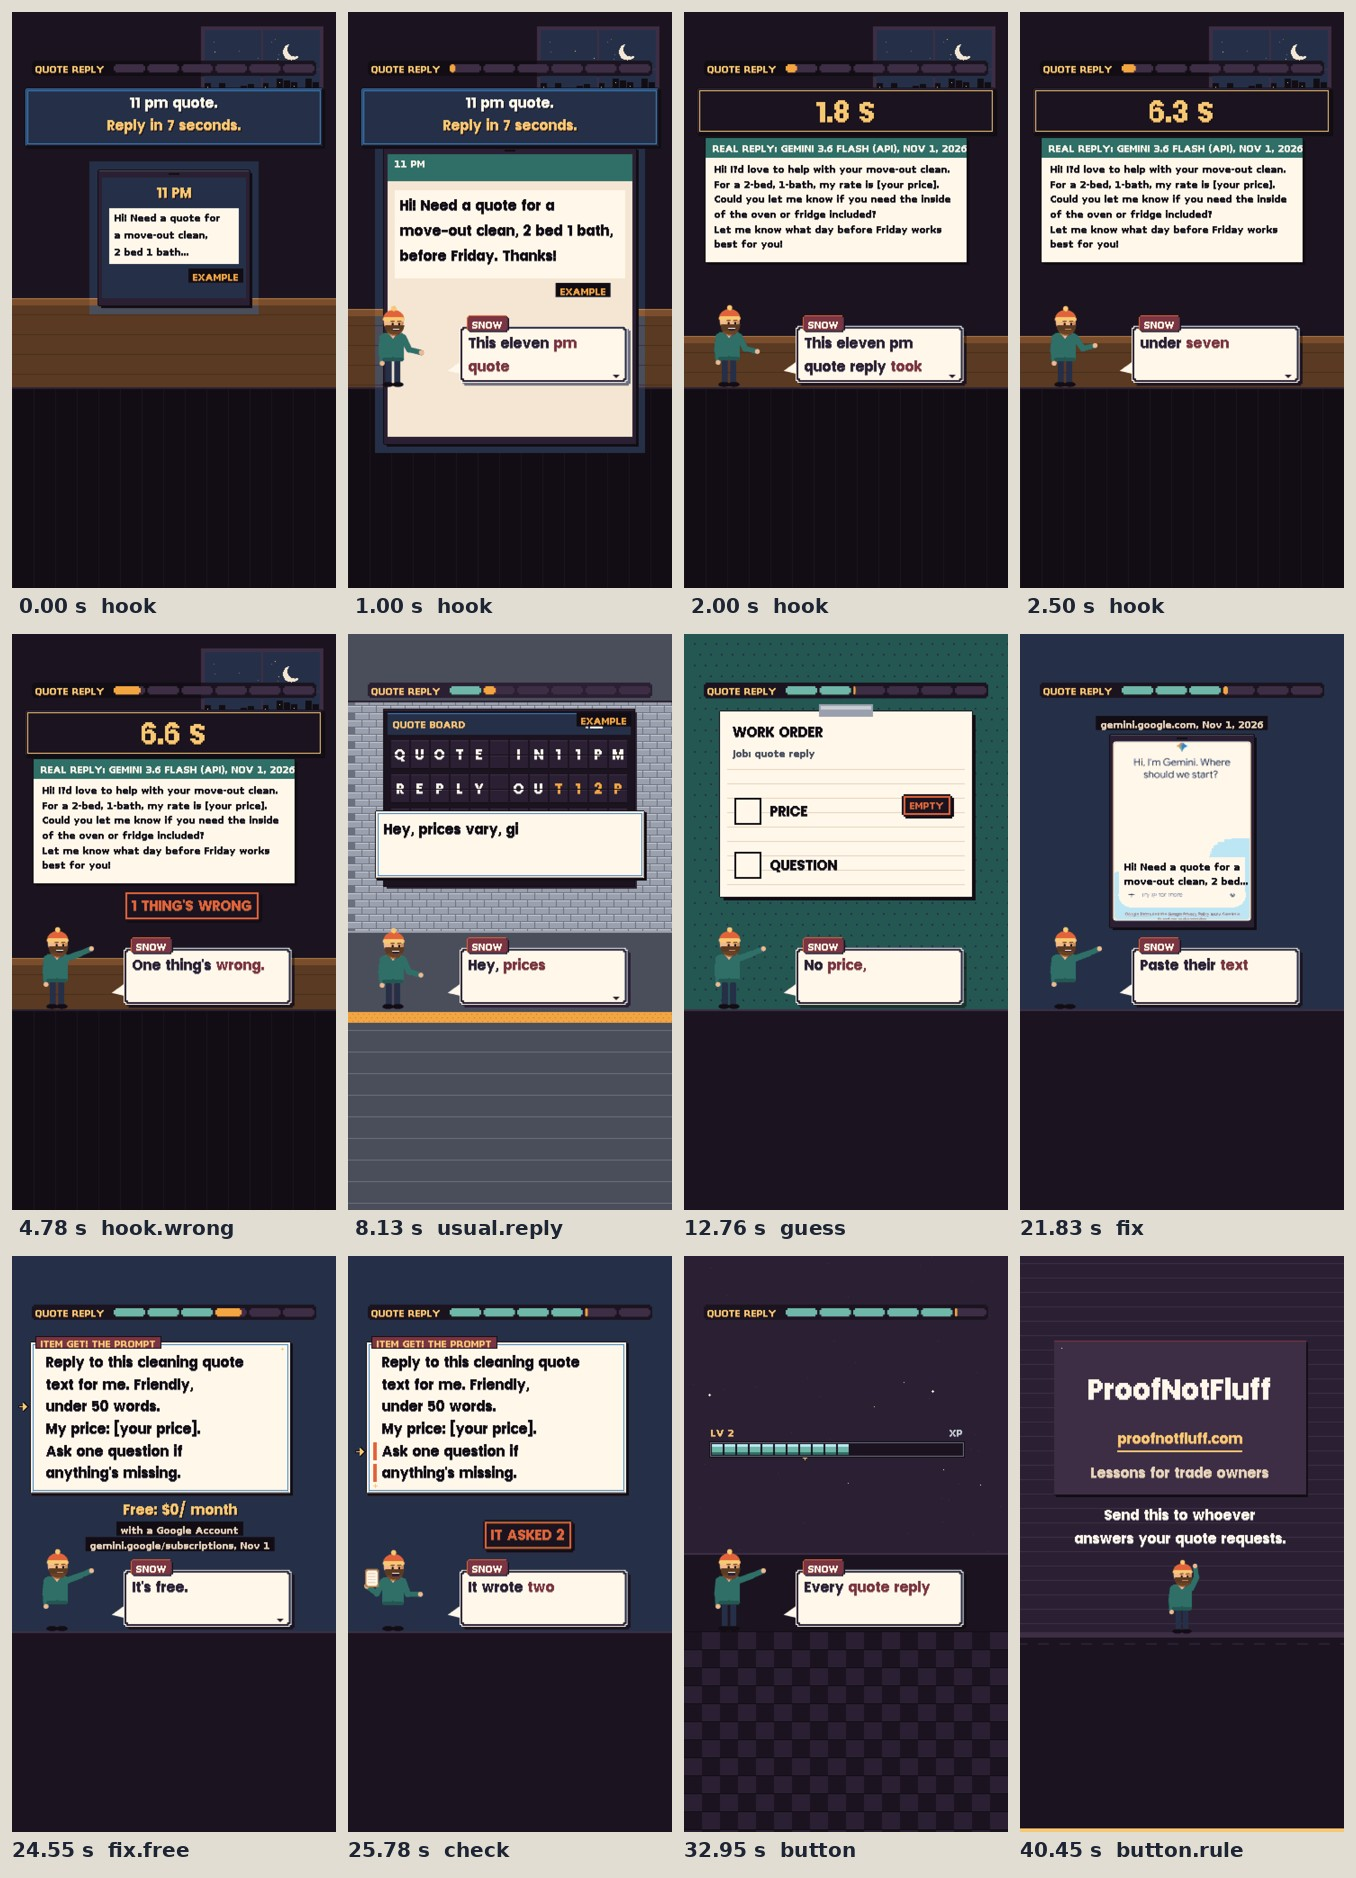
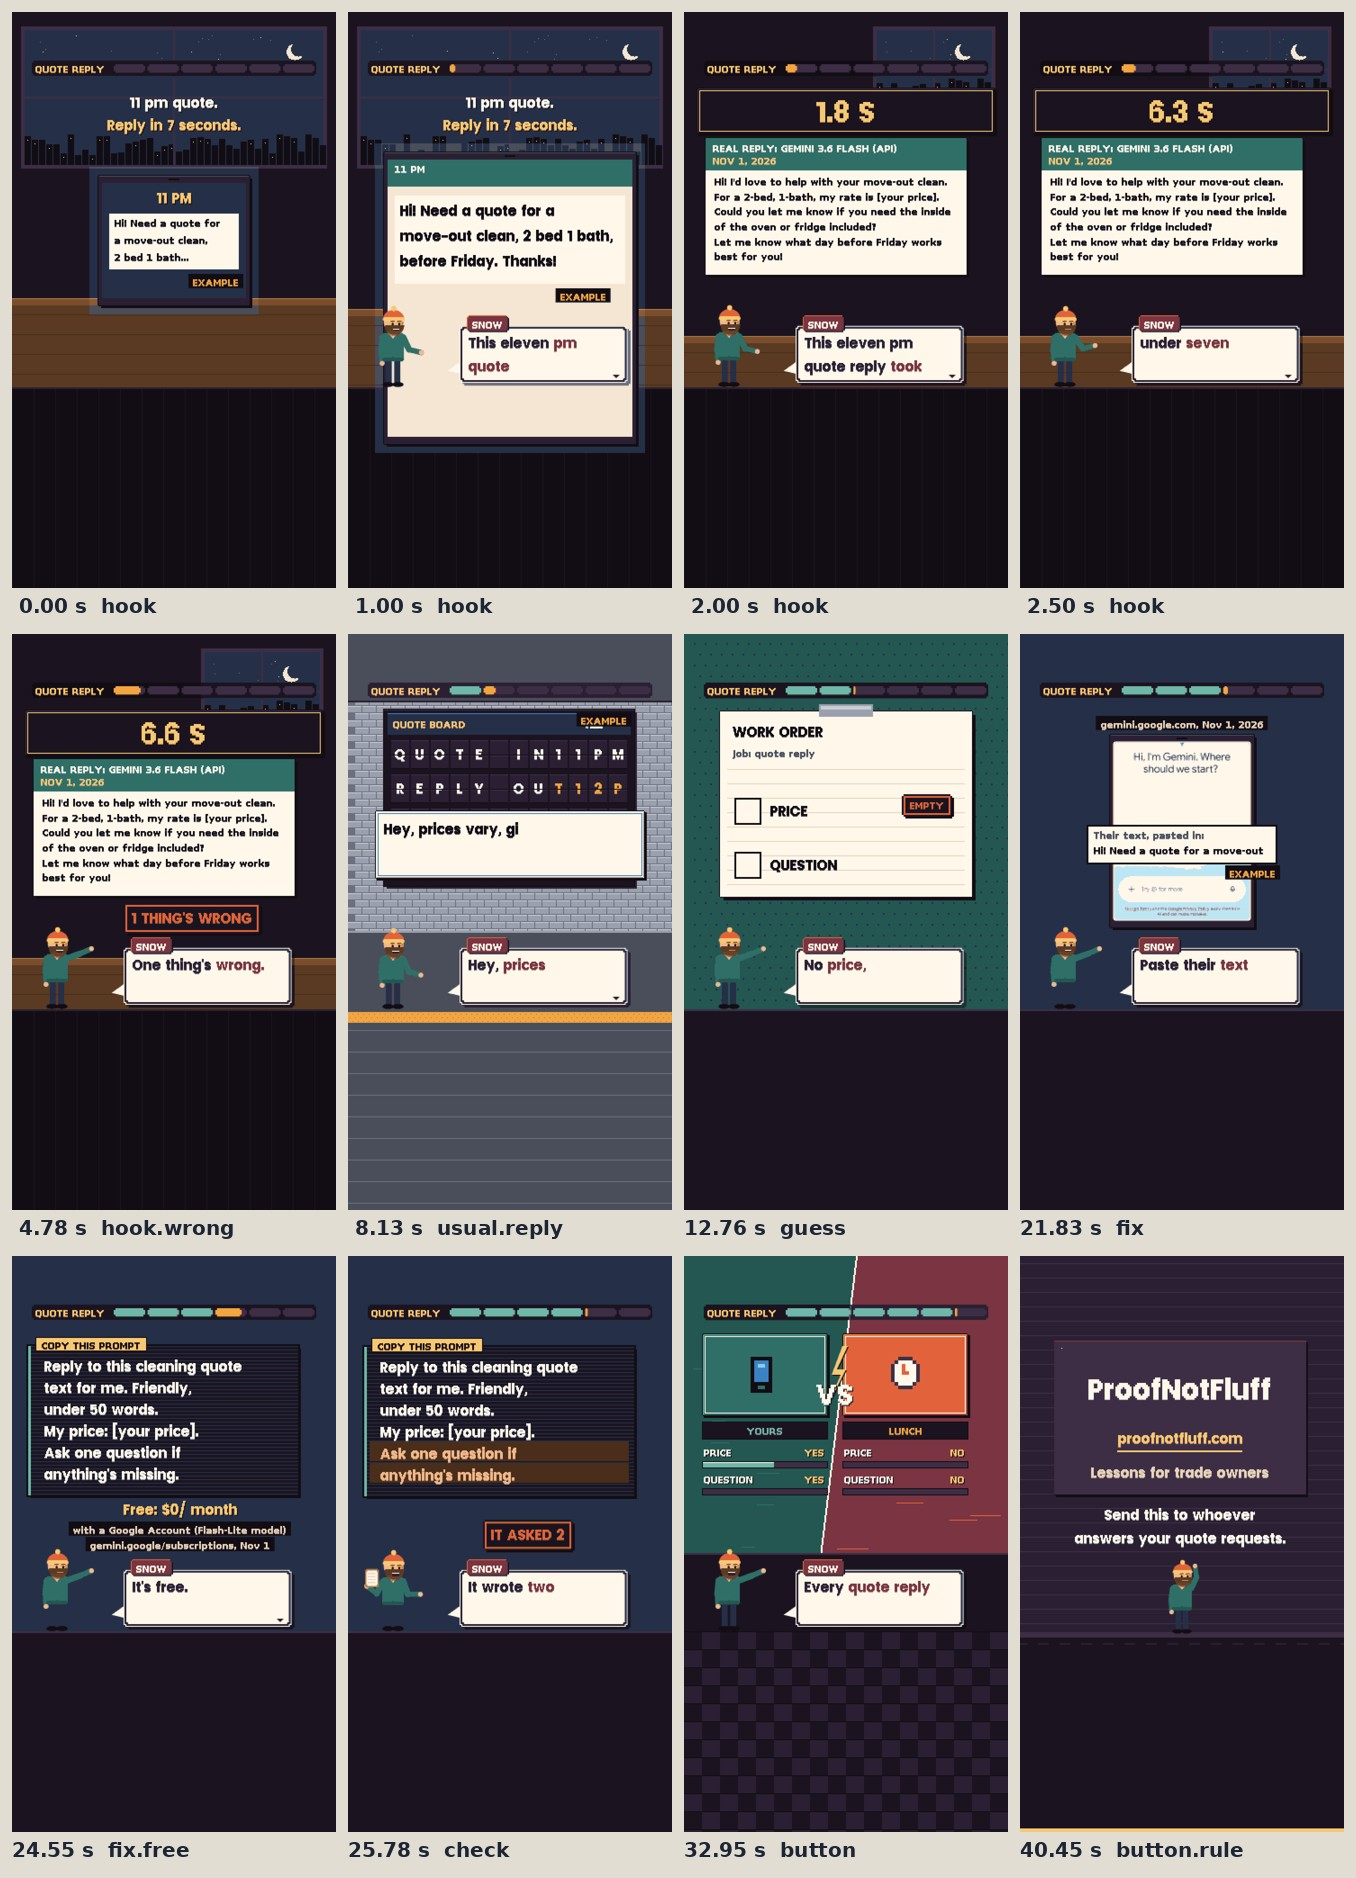
studio: ai-night-quote r2 build after gate round 0 (straight apostrophe on screen, two-line label, new hook frame, prompt window, versus button, gauge labels)
Claude-Session: https://claude.ai/code/session_01XMn4eG6k8p7JQcb4MZZmhR

diff --git a/video/studio/videos/2026-11-14-ai-night-quote/04_scene/scene.js b/video/studio/videos/2026-11-14-ai-night-quote/04_scene/scene.js
@@ -72,17 +72,18 @@ const REPLY = ["Hi! I’d love to help with your move-out clean. For a 2-bed, 1-
   'Could you let me know if you need the inside of the oven or fridge included?',
   'Let me know what day before Friday works best for you!'];
 const CUSTOMER = 'Hi! Need a quote for a move-out clean, 2 bed 1 bath, before Friday. Thanks!';
-const LABEL = 'REAL REPLY: GEMINI 3.6 FLASH (API), NOV 1, 2026';
+const LABEL = ['REAL REPLY: GEMINI 3.6 FLASH (API)', 'NOV 1, 2026'];
+const glyphs = (l) => l.replace(/\u2019/g, "'");   /* the pixel font has no curly apostrophe: the same word, drawn straight */
 
 /* the bedroom at night: a dark wall, a window with the moon and a city line, the nightstand top, the phone glow */
 const bedroom = (k, o = {}) => {
   const d = px(k), {P, DOT, dith, disc, F} = d;
   P(0, 0, 360, 417, '#1B1420'); for (let y = 0; y < 417; y += 6) P(0, y, 360, 1, '#1F1726');
   /* the window, top right: a navy sky, the moon, stars that twinkle slowly, a skyline */
-  const wx = 214, wy = 20, ww = 128, wh = 88;
+  const wide = o.wide, wx = wide ? 14 : 214, wy = wide ? 20 : 20, ww = wide ? 332 : 128, wh = wide ? 150 : 88;
   P(wx - 4, wy - 4, ww + 8, wh + 8, '#3D2E45'); P(wx, wy, ww, wh, '#253048'); dith(wx, wy + wh - 30, ww, 30, '#2B3A5A');
-  disc(wx + 96, wy + 24, 9, '#FFF2B8'); disc(wx + 100, wy + 21, 8, '#253048');
-  for (let i = 0; i < 9; i++) { const x = wx + 6 + Math.floor(hash(i * 3.1) * (ww - 12)), y = wy + 6 + Math.floor(hash(i * 7.3) * 40); DOT(x, y, (Math.floor(F / 18) + i) % 4 === 0 ? GOLD : '#6B7080'); }
+  disc(wx + ww - 32, wy + 24, 9, '#FFF2B8'); disc(wx + ww - 28, wy + 21, 8, '#253048');
+  for (let i = 0; i < (wide ? 22 : 9); i++) { const x = wx + 6 + Math.floor(hash(i * 3.1) * (ww - 12)), y = wy + 6 + Math.floor(hash(i * 7.3) * 40); DOT(x, y, (Math.floor(F / 18) + i) % 4 === 0 ? GOLD : '#6B7080'); }
   for (let x = wx; x < wx + ww; x += 8) { const h = 10 + Math.floor(hash(x * 0.37) * 26); P(x, wy + wh - h, 7, h, '#120D14'); if (hash(x * 1.7) > 0.5) DOT(x + 3, wy + wh - h + 4, GOLD); }
   P(wx + ww / 2 - 1, wy, 2, wh, '#3D2E45'); P(wx, wy + wh / 2 - 1, ww, 2, '#3D2E45');
   /* the nightstand */
@@ -103,7 +104,6 @@ const bigPhone = (k, d, x, y, w, h, o = {}) => {
 };
 /* the hook's title plate */
 const hookPlate = (k, d, n) => {
-  d.win(14, 84, 332, 66, {base: '#253048', hi: '#3B82C4', lo: '#1B1420', rule: '#3B82C4'});
   k.text(`${n.night.shown} pm quote.`, 540, 270, {size: 66, color: CREAM, align: 'center', drop: INK});
   k.text(`Reply in ${n.under.shown} seconds.`, 540, 346, {size: 66, color: GOLD, align: 'center', drop: INK});
 };
@@ -114,24 +114,50 @@ const tag = (k, s, x, y, o = {}) => chipText(k, s, x, y, Object.assign({size: 39
 const replyCard = (k, x, y, w, o = {}) => {
   const lh = 50, pad = 30, rows = [];
   REPLY.forEach((p, pi) => k.wrap(p, {size: 39}, w - 2 * pad).forEach((l) => rows.push([l, pi])));
-  const n = o.max != null ? Math.min(o.max, rows.length) : rows.length, h = 84 + n * lh + 30 + (o.extra || 0);
+  const n = o.max != null ? Math.min(o.max, rows.length) : rows.length, h = 126 + n * lh + 30 + (o.extra || 0);
   const fl = o.float ? bob2(k.T, o.float) / 2 : 0;
   k.ctx.fillStyle = INK; k.ctx.fillRect(x + 9, y + 9 + fl, w, h); k.ctx.fillRect(x - 3, y - 3 + fl, w + 6, h + 6);
   k.ctx.fillStyle = CREAM; k.ctx.fillRect(x, y + fl, w, h);
-  k.ctx.fillStyle = '#2F6F67'; k.ctx.fillRect(x, y + fl, w, 66);
-  k.text(o.label || LABEL, x + 24, y + 16 + fl, {size: 39, color: CREAM});
+  k.ctx.fillStyle = '#2F6F67'; k.ctx.fillRect(x, y + fl, w, 108);
+  k.text(LABEL[0], x + 24, y + 14 + fl, {size: 39, color: CREAM}); k.text(LABEL[1], x + 24, y + 58 + fl, {size: 39, color: GOLD});
   rows.slice(0, n).forEach(([l, pi], i) => {
-    const ly = y + 84 + i * lh + fl;
+    const ly = y + 126 + i * lh + fl;
     if (o.hi && o.hi[pi] && k.T >= o.hi[pi][1]) { k.ctx.fillStyle = o.hi[pi][0]; k.ctx.fillRect(x + 12, ly - 6, w - 24, lh - 2); }
     const dead = o.strike && o.strike.includes(pi) && k.T >= o.strikeAt;
-    k.text(l, x + pad, ly, {size: 39, color: dead ? GREY : INK});
-    if (dead) { k.ctx.fillStyle = RED; k.ctx.fillRect(x + pad - 6, ly + 18, Math.min(w - 2 * pad + 12, k.measure(l, {size: 39}) + 12), 6); }
+    k.text(glyphs(l), x + pad, ly, {size: 39, color: dead ? '#B5524A' : INK});
+    if (dead) { k.ctx.fillStyle = RED; k.ctx.fillRect(x + pad - 6, ly + 15, Math.min(w - 2 * pad + 12, k.measure(glyphs(l), {size: 39}) + 12), 6); }
     if (o.priceAt != null && k.T >= o.priceAt && l.includes('[your price]')) {
-      const pre = l.slice(0, l.indexOf('[your price]')), px0 = x + pad + k.measure(pre, {size: 39}), pw = k.measure('[your price]', {size: 39});
+      const pre = glyphs(l).slice(0, l.indexOf('[your price]')), px0 = x + pad + k.measure(pre, {size: 39}), pw = k.measure('[your price]', {size: 39});
       k.sweep(px0 - 6, ly - 6, pw + 12, lh - 2, o.priceAt, {color: GOLD}); k.text('[your price]', px0, ly, {size: 39, color: INK, lint: false});
     }
   });
   return {x, y: y + fl, w, h, rows: n};
+};
+
+/* the save card (C3): a dark terminal-style PROMPT window. The lines type in as it lands (0.06 s a letter, all six in */
+/* about 1.2 s), a block cursor blinks at 2 a second after the last letter and the window floats 1 px, so it is never */
+/* flat (M1). A gold COPY THIS tab rides its top edge. o.red: line indexes lit red from o.redAt.                    */
+const promptBox = (k, t0, o = {}) => {
+  const T = k.T; if (T < t0) return null;
+  const x = 54, w = 900, lh = 72, pad = 36, y0 = 300, h = pad * 2 + PROMPT.length * lh - 6;
+  const q = eo(clamp((T - t0) / 0.25)), y = Math.round((y0 + (1 - q) * 60) / 3) * 3 + (T >= t0 + 1.6 ? bob2(T, t0 + 1.6) / 2 : 0);
+  k.ctx.fillStyle = INK; k.ctx.fillRect(x + 9, y + 9, w, h); k.ctx.fillRect(x - 6, y - 6, w + 12, h + 12);
+  k.ctx.fillStyle = '#0E1F2A'; k.ctx.fillRect(x, y, w, h);
+  k.ctx.fillStyle = '#16323F'; for (let yy = y; yy < y + h; yy += 12) k.ctx.fillRect(x, yy, w, 3);
+  k.ctx.fillStyle = TEAL; k.ctx.fillRect(x, y, 9, h);
+  const tab = 'COPY THIS PROMPT', tw2 = k.measure(tab, {size: 39}) + 36;
+  k.ctx.fillStyle = INK; k.ctx.fillRect(x + 24, y - 30, tw2 + 6, 48); k.ctx.fillStyle = GOLD; k.ctx.fillRect(x + 27, y - 27, tw2, 42);
+  k.text(tab, x + 45, y - 21, {size: 39, color: INK});
+  const per = 0.011, total = PROMPT.join('').length; let used = 0, lastX = x + pad + 18, lastY = y + pad;
+  const shown = Math.floor((T - t0 - 0.15) / per);
+  PROMPT.forEach((l, i) => {
+    const c = clamp(shown - used, 0, l.length); used += l.length;
+    const ly = y + pad + i * lh, red = o.red && o.red.includes(i) && T >= o.redAt;
+    if (red) { k.ctx.fillStyle = '#5A1F24'; k.ctx.fillRect(x + 18, ly - 9, w - 36, lh - 6); }
+    if (c > 0) { k.text(l.slice(0, c), x + pad + 18, ly, {size: 66, color: red ? '#FFB4A2' : CREAM}); lastX = x + pad + 18 + k.measure(l.slice(0, c), {size: 66}); lastY = ly; }
+  });
+  if (shown >= total && Math.floor(T * 2) % 2 === 0) { k.ctx.fillStyle = GOLD; k.ctx.fillRect(lastX + 9, lastY, 27, 60); }
+  return {x, y, w, h};
 };
 
 window.SCENE = {
@@ -140,8 +166,8 @@ window.SCENE = {
   host_name: 'Snow',
   hud: 'QUOTE REPLY',
   sendLine: 'Send this to whoever answers your quote requests.',
-  transitions: {usual: 'dissolve', guess: 'levelselect', fix: 'dissolve', check: 'dissolve', button: 'gameover'},
-  trauma: {'check': 0.6},
+  transitions: {usual: 'dissolve', guess: 'levelselect', fix: 'dissolve', check: 'dissolve', button: 'levelselect'},
+  trauma: {'check.cut': 0.6},
   sections: {
     /* ---- hook: three shots. Cover (frame 0, no host): the bedroom, the phone on the nightstand glowing with the     */
     /* customer's text, 11 PM, the plate. By 0.8 s cut in close on the phone: the bubble big, EXAMPLE. On "reply"  */
@@ -161,8 +187,8 @@ window.SCENE = {
         return host(k, T >= tWrong ? 'point' : null);
       }
       if (T >= tIn) {
-        const d = bedroom(k, {top: 330});
-        const s = bigPhone(k, d, 40, 150, 280, 330, {glow: true});
+        const d = bedroom(k, {top: 330, wide: true});
+        const s = bigPhone(k, d, 40, 156, 280, 324, {glow: true});
         d.P(s.x, s.y, s.w, 30, '#2F6F67'); k.text(`${n.night.shown} PM`, (s.x + 8) * 3, (s.y + 4) * 3, {size: 39, color: CREAM, lint: false});
         const ls = k.wrap(CUSTOMER, {size: 66}, (s.w - 24) * 3);
         d.P(s.x + 8, s.y + 40, s.w - 16, ls.length * 28 + 14, CREAM); d.P(s.x + 8, s.y + 40, s.w - 16, 1, '#FFFFFF');
@@ -171,8 +197,8 @@ window.SCENE = {
         hookPlate(k, d, n);
         return host(k);
       }
-      const d = bedroom(k, {top: 318});
-      const s = bigPhone(k, d, 96, 176, 168, 150, {glow: true, screen: '#253048'});
+      const d = bedroom(k, {top: 318, wide: true});
+      const s = bigPhone(k, d, 96, 182, 168, 144, {glow: true, screen: '#253048'});
       k.text(`${n.night.shown} PM`, 540, (s.y + 6) * 3, {size: 66, color: GOLD, align: 'center', drop: INK});
       d.P(s.x + 8, s.y + 34, s.w - 16, 62, CREAM); d.P(s.x + 8, s.y + 34, s.w - 16, 1, '#FFFFFF');
       ['Hi! Need a quote for', 'a move-out clean,', '2 bed 1 bath...'].forEach((l, i) => k.text(l, (s.x + 14) * 3, (s.y + 38 + i * 19) * 3, {size: 39, color: INK}));
@@ -203,10 +229,9 @@ window.SCENE = {
       const n = k.data.numbers, t0 = k.S('guess'), tStake = k.S('guess.stake');
       if (T >= tStake) {
         const tTwenty = wordT(k, 'guess.stake', /^twenty/i, 1.0);
-        k.sets.gauge({value: n.hourPct.value, max: 100, at: tTwenty - 0.25, dur: 1.0, zones: [[0, 40, RED], [40, 70, ORANGE], [70, 100, TEAL]], label: `REPLY IN ${n.hours.shown} HOUR`, suffix: '%'});
-        k.text('of cleaning businesses', 540, 800 + (T >= tTwenty + 1.2 ? bob2(T, tTwenty + 1.2) : 0), {size: 66, color: CREAM, align: 'center', drop: INK});
-        tag(k, 'Source: Jobber, 2026 Home Service Trends', 540, 880, {align: 'center'});
-        tag(k, `Report, ${n.owners.shown} owners, Dec ${n.year.shown}`, 540, 936, {align: 'center'});
+        k.sets.gauge({value: n.hourPct.value, max: 100, at: tTwenty - 0.25, dur: 1.0, zones: [[0, 40, RED], [40, 70, ORANGE], [70, 100, TEAL]], label: `CLEANING: REPLY IN ${n.hours.shown} HOUR`, suffix: '%'});
+        tag(k, 'Source: Jobber, 2026 Home Service Trends', 540, 908 + (T >= tTwenty + 1.2 ? bob2(T, tTwenty + 1.2) / 2 : 0), {align: 'center'});
+        tag(k, `Report, ${n.owners.shown} owners, Dec ${n.year.shown}`, 540, 958, {align: 'center'});
         return host(k, T >= tTwenty ? 'lean' : null);
       }
       const d = px(k), {P} = d;
@@ -238,17 +263,19 @@ window.SCENE = {
       P(0, 0, 360, 417, '#253048'); for (let y = 0; y < 417; y += 4) P(0, y, 360, 1, '#1F2A40'); P(0, 417, 360, 223, '#1B1420'); P(0, 417, 360, 2, '#3D2E45');
       if (T < tPr - 0.25) {
         const s = bigPhone(k, d, 100, 112, 160, 214, {screen: '#F7F7F7'});
-        k.page(s.x * 3, s.y * 3, s.w * 3, s.h * 3, 'gemini-app', {scroll: 380});
+        k.page(s.x * 3, s.y * 3, s.w * 3, s.h * 3, 'gemini-app', {scroll: 398});
         /* their text pastes into the box */
         const q = clamp((T - (t0 + 0.4)) / 0.4);
-        if (q > 0) { d.P(s.x + 6, s.y + s.h - 70, s.w - 12, 40, CREAM); k.text('Hi! Need a quote for a', (s.x + 12) * 3, (s.y + s.h - 66) * 3, {size: 39, color: INK}); k.text('move-out clean, 2 bed...', (s.x + 12) * 3, (s.y + s.h - 50) * 3, {size: 39, color: INK}); }
+        if (q > 0) { const sl = d.ease(t0 + 0.4, 6, 30), by = s.y + 92 + sl; d.P(s.x - 30, by, s.w + 60, 44, INK); d.P(s.x - 28, by + 2, s.w + 56, 40, CREAM);
+          k.text('Their text, pasted in:', (s.x - 22) * 3, (by + 5) * 3, {size: 39, color: '#4A4E5A'}); k.text('Hi! Need a quote for a move-out', (s.x - 22) * 3, (by + 22) * 3, {size: 39, color: INK});
+          tag(k, 'EXAMPLE', (s.x + s.w + 28) * 3, (by + 48) * 3, {align: 'right', color: ORANGE}); }
         tag(k, 'gemini.google.com, Nov 1, 2026', 540, 282, {align: 'center'});
         return host(k, 'point');
       }
-      k.itemGet({x: 60, y: 288, w: 870, at: tPr - 0.25, size: 66, lh: 74, pad: 36, title: 'ITEM GET! THE PROMPT', step: 0.7, lines: PROMPT});
+      promptBox(k, tPr - 0.25);
       if (T >= tFree - 0.25) {
         k.slam(`Free: ${n.free.shown}/ month`, 560, 812 + (T >= tFree + 0.2 ? bob2(T, tFree + 0.2) : 0), tFree - 0.25, {size: 66, color: GOLD, align: 'center', from: 0.4, drop: INK, glint: false});
-        tag(k, 'with a Google Account', 560, 894, {align: 'center'});
+        tag(k, 'with a Google Account (Flash-Lite model)', 560, 894, {align: 'center'});
         tag(k, 'gemini.google/subscriptions, Nov 1', 560, 946, {align: 'center'});
       }
       return host(k, 'point');
@@ -265,7 +292,7 @@ window.SCENE = {
       if (T < tOven - 0.25) {
         const tPr = k.S('fix.prompt'), d = px(k), {P} = d;
         P(0, 0, 360, 417, '#253048'); for (let y = 0; y < 417; y += 4) P(0, y, 360, 1, '#1F2A40'); P(0, 417, 360, 223, '#1B1420'); P(0, 417, 360, 2, '#3D2E45');
-        k.itemGet({x: 60, y: 288, w: 870, at: tPr - 0.25, size: 66, lh: 74, pad: 36, title: 'ITEM GET! THE PROMPT', step: 0.7, lines: PROMPT, bars: [null, null, null, null, T >= tTwo - 0.25 ? RED : null, T >= tTwo - 0.25 ? RED : null]});
+        promptBox(k, tPr - 0.25, {red: [4, 5], redAt: tTwo - 0.25});
         if (T >= tTwo - 0.25) stampBox(k, `IT ASKED ${n.asked.shown}`, 600, 880, tTwo - 0.25, {color: RED, size: 66});
         return host(k, 'lean');
       }
@@ -279,15 +306,18 @@ window.SCENE = {
       return host(k, T >= tCut ? 'point' : (T >= tTwo ? 'lean' : null));
     },
 
-    /* ---- button: the levelup set (the native move, M7): the bar fills, LEVEL UP on "question", perks PRICE and ONE    */
-    /* QUESTION; the rule in gold on "Send".                                                                            */
+    /* ---- button: the versus set: YOURS (price YES, question YES) against LUNCH (NO, NO), the work order's two boxes as */
+    /* stats; QUEST COMPLETE stamps on the winner on "question" (the native move, M7); the rule lands in gold on "Send". */
     button: (k, T) => {
-      const t0 = k.S('button'), tQ = wordT(k, 'button', /^question/i, 2.2), tRule = k.S('button.rule');
-      k.sets.levelup({from: 0, to: 100, max: 100, at: t0 + 0.1, dur: Math.max(0.6, tQ - t0 - 0.3), levelAt: tQ - 0.2, level: 2,
-        stats: [{text: 'A PRICE', at: wordT(k, 'button', /^price/i, 1.2) - 0.25}, {text: 'ONE QUESTION', at: tQ - 0.25}]});
+      const t0 = k.S('button'), tP = wordT(k, 'button', /^price/i, 1.2), tQ = wordT(k, 'button', /^question/i, 2.2), tRule = k.S('button.rule');
+      const n = k.data.numbers;
+      /* versus: the lunch reply against the fixed one, the two boxes of the work order as the stats (teal is the fix) */
+      k.sets.versus({a: {name: 'YOURS', icon: 'phone', stats: [{label: 'PRICE', value: 1, max: 1, text: 'YES'}, {label: 'QUESTION', value: 1, max: 1, text: 'YES'}]},
+        b: {name: 'LUNCH', icon: 'clock', stats: [{label: 'PRICE', value: 0, max: 1, text: 'NO'}, {label: 'QUESTION', value: 0, max: 1, text: 'NO'}]},
+        at: t0 - 0.4, vsAt: t0 + 0.2, winner: 'a', winAt: tQ - 0.2, winText: 'QUEST COMPLETE'});
       if (T >= tRule - 0.25) {
-        k.slam('Send it before', 540, 856, tRule - 0.25, {size: 66, color: CREAM, align: 'center', from: 0.4, drop: INK, glint: false});
-        k.slam('your first job.', 540, 940, tRule - 0.15, {size: 66, color: GOLD, align: 'center', from: 0.4, drop: INK, glint: false});
+        k.slam('Send it before', 540, 852, tRule - 0.25, {size: 66, color: CREAM, align: 'center', from: 0.4, drop: INK, glint: false});
+        k.slam('your first job.', 540, 932, tRule - 0.15, {size: 66, color: GOLD, align: 'center', from: 0.4, drop: INK, glint: false});
       }
       return host(k, T >= tRule + 1.0 ? 'wave' : 'point');
     },

diff --git a/video/studio/videos/2026-11-14-ai-night-quote/03_cues/cues.md b/video/studio/videos/2026-11-14-ai-night-quote/03_cues/cues.md
@@ -22,7 +22,7 @@ The gauge: the needle to 26%, label "REPLY IN 1 HOUR", "cleaning businesses"; so
 ## fix "Paste their text into" [sfx: whoosh]
 A phone frame with Gemini's own start screen (page shot, Nov 1), the address tag "gemini.google.com" and the customer's text sliding into the box.
 ## fix.prompt "with this prompt" [sfx: chime]
-The prompt as an ITEM GET window, THE PROMPT, word for word as run; the hand walks its lines; held into the next section.
+The prompt in a dark PROMPT window with a gold COPY THIS PROMPT tab, typed in word for word as run, a block cursor blinking; held into the next section, its last two lines lit red on "two".
 
 ## fix.free "It's free." [sfx: tick]
 Cut to Gemini's own plan page shot: "Free" and "$0/ month with a Google Account", tag "gemini.google/subscriptions, Nov 1, 2026".
@@ -32,6 +32,6 @@ The real reply card again, full text word for word, labelled with model and date
 The second ask greys and strikes through on "Cut"; "[your price]" lights gold on "price"; a SEND button presses on "yourself"; "Gemini is AI and can make mistakes." from its own page under it.
 
 ## button "Every quote reply needs" [sfx: whoosh]
-The levelup set: the bar fills, LEVEL UP on "question", perks PRICE and ONE QUESTION land; the work order's boxes ticked.
+The versus set: YOURS (price YES, question YES) against LUNCH (NO, NO); QUEST COMPLETE on YOURS on "question".
 ## button.rule "Send that reply before" [sfx: sting]
 "Send it before / your first job." in gold. Snow waves. Then the end card with the send line.
